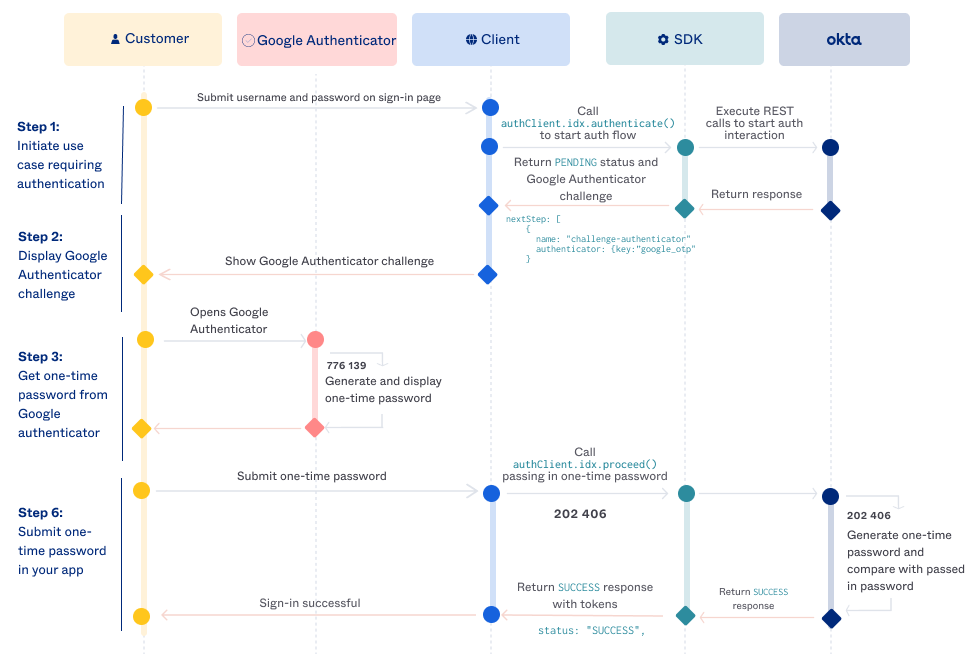
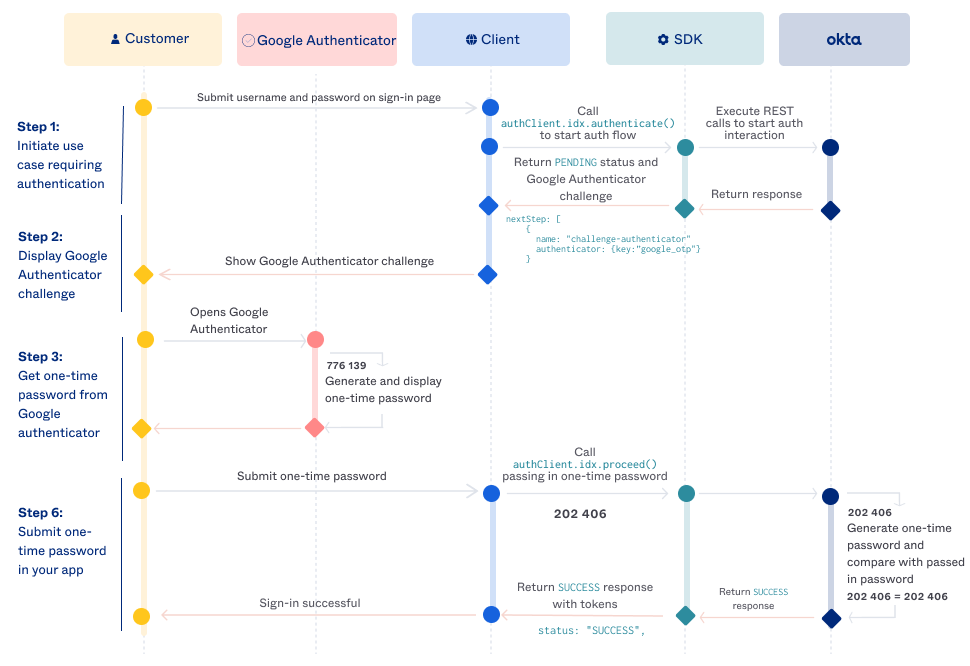
Updated google auth content based on feedback

Changed region(s): [[0.866, 0.7508, 1.0, 0.9009]]

diff --git a/packages/@okta/vuepress-site/docs/guides/authenticators-google-authenticator/main/index.md b/packages/@okta/vuepress-site/docs/guides/authenticators-google-authenticator/main/index.md
@@ -35,7 +35,7 @@ This guide shows you how to integrate the Google Authenticator into your authent
 
 ## Overview
 
-Google Authenticator is an authenticator app developed by Google used to verify the identity of a user. During authentication (for example sign-in), a user enrolled in Google Authenticator is challenged by the service provider to provide a Time-based One-Time Password (TOTP). The app is used to generate this TOTP, which is passed to the service provider for verification. The service provider independently generates the TOTP and validates that the submitted password is identical to the generated one.
+Google Authenticator is an authenticator app developed by Google used to verify the identity of a user. During authentication (for example sign-in), a user enrolled in Google Authenticator is challenged by the service provider to provide a Time-based One-Time Password (TOTP). The app is used to generate the TOTP, which is passed to the service provider for verification. The service provider independently generates the TOTP and validates that the submitted password is identical to the generated one.
 
 The TOTP is calculated based off the current time and a shared key that was generated by the service provider and added to the Google Authenticator app during initial authenticator enrollment. It is this shared key, which is stored at the service provider and user's mobile device, that makes Google Authenticator a possession-based factor type.
 
@@ -48,8 +48,6 @@ The following diagram illustrates how the Google authenticator enrollment and ch
 ![Diagram showing the Google Authenticator enrollment flow](/img/authenticators/authenticators-google-flow-overview.png)
 
 </div>
-
-As the service provider, you enabled Google Authenticator in the Okta org through configuration updates and build support in your site or app
 
 ## Update configurations
 
